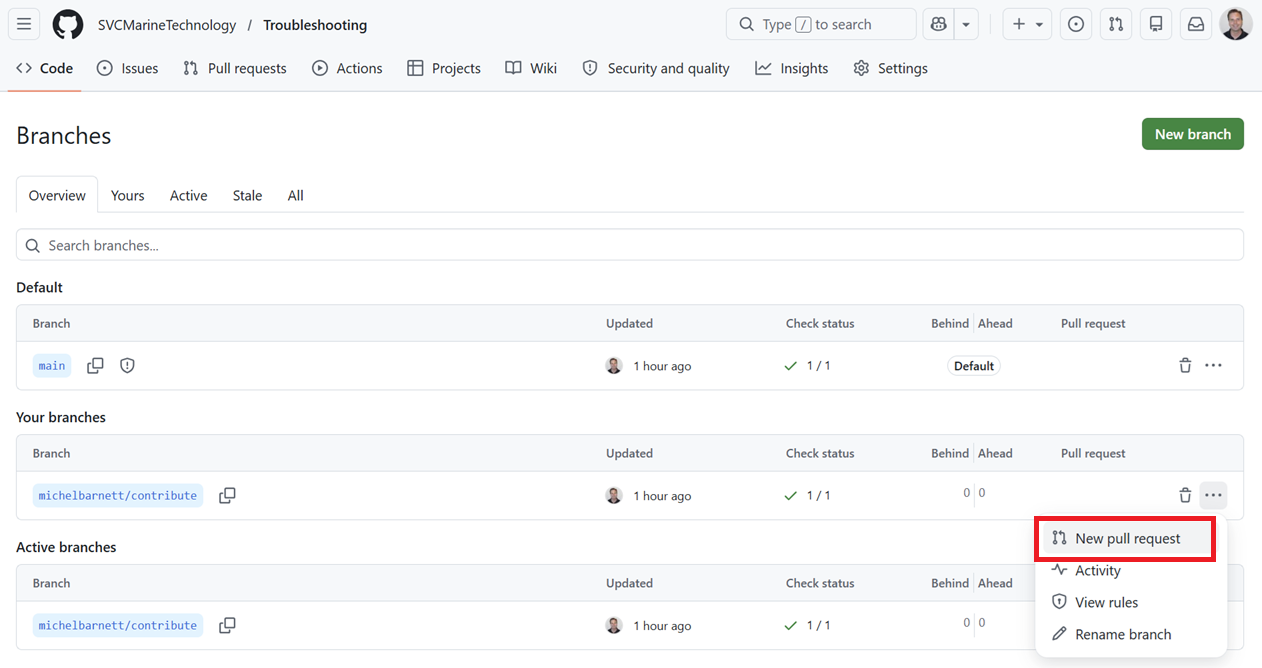
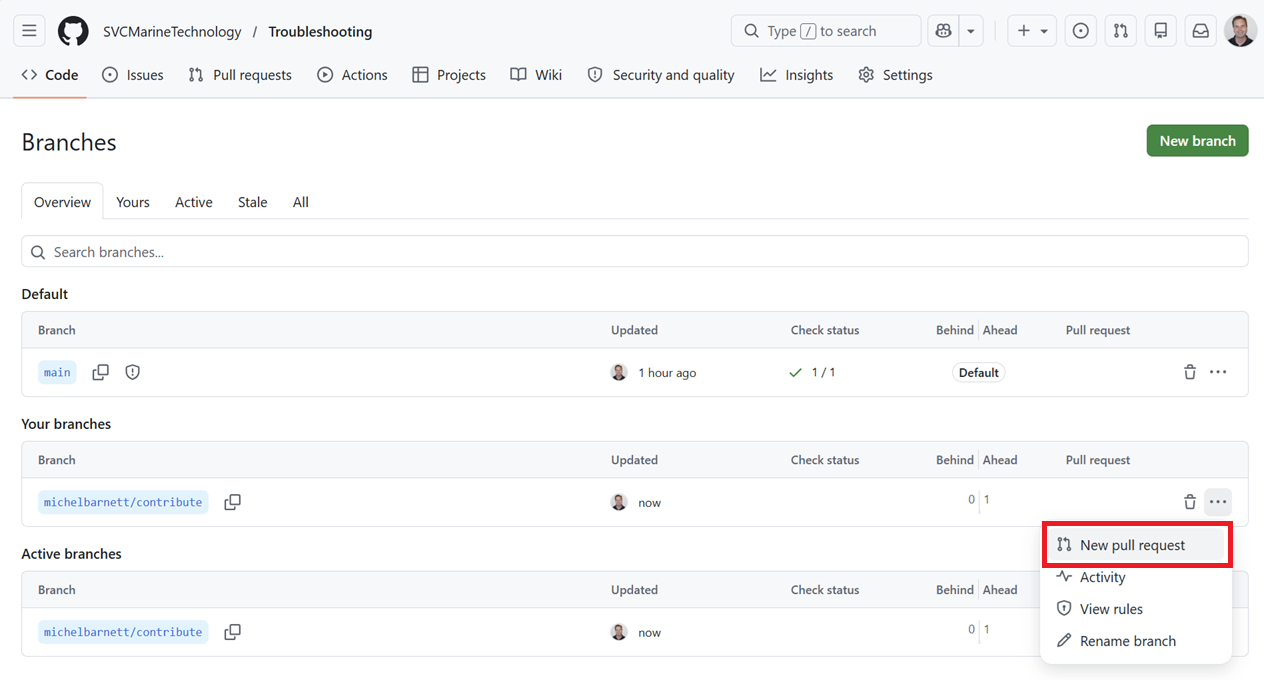
fixed formatting issue for OK

diff --git a/contribute/participate-in-review.md b/contribute/participate-in-review.md
@@ -1,3 +1,69 @@
 # Participate in Review
 
-TBD
+Once a pull request is created, it needs to be reviewed and approved before merging it into the `main` branch.  If you're selected to review a PR, you can complete the following steps to review it.
+
+## Reviewing a PR
+
+As an example, let's say you're asking to review the following PR:
+
+https://github.com/SVCMarineTechnology/Troubleshooting/pull/5
+
+Complete the following steps to do so:
+
+1. Open the PR you want to review.  For example:
+
+   https://github.com/SVCMarineTechnology/Troubleshooting/pull/5
+
+2. Review the change.  You'll want to pay particular attention to the following items:
+
+   - Description - Read it to understand the overall change
+   - Comments - Check if others have added a comment to learn about issues that have already been identified.
+   - Files changed - Review the individual files that have been modified in the PR
+
+   for example:
+
+   ![](C:\github\SVCMarineTechnology\Troubleshooting\contribute\images\participate-in-review-review-change.png)
+
+In the following procedures we'll add a general comment as well as a comment to a particular file.
+
+## Add a comment to a file
+
+Most of the comments you'll make will probably be to a specific file.  The following example demonstrates how to make a file specific comment:
+
+1. Open the PR and select **Files changed**.  For example:
+
+   ![](images/participate-in-review-view-files-changed.png)
+
+   The list of files on the left are all of the files that are changed in this PR.  In this example, all of the files are in the `contribute` directory.  This is a good way to a get a quick read on which parts of the repo have been modified.
+
+2. Add a comment by selecting a a line and clicking the `+` button.  For example:
+
+   ![](images/participate-in-review-add-comment-to-line.png)
+
+3. Enter a comment and click **Comment**.  for example:
+
+   ![](images/participate-in-review-enter-comment-to-line.png)
+
+## Add a General Comment
+
+You can also add general comments to the PR.  This is appropriate when the comment isn't file specific but applies to the overall PR.   Complete the following steps to do so.
+
+1. Open the PR, enter a comment in the Add a comment section at the end of the page and click **Comment**.  For example:
+
+   ![](images/participate-in-review-add-general-comment.png)
+
+## Resolve a Comment
+
+As the person who create the PR, you'll need to resolve all comments before you can merge your PR to main.  Here's an example of how to resolve a comment.
+
+1. Open your PR and review the comments that have been made.  In this example there are two comments:
+
+   ![](images/participate-in-review-look-at-all-comments.png)
+
+2. Resolve the comment.  
+
+   > [!NOTE]
+   >
+   > In this example, we're resolving the first comment by fixing the formatting issue and making 'OK' bold.  This means changing the appropriate file and pushing the change.
+
+3. 

diff --git a/contribute/open-pull-request.md b/contribute/open-pull-request.md
@@ -14,6 +14,10 @@ When you're ready to put your changes up for review, you'll need to open a pull 
 
    ![](images/open-pull-request-select-new-pull-request.png)
 
-4. Set the following parameters
+4. Enter a title and description and then click **Create pull request**
 
-   TBD
+   ![](images/open-pull-request-enter-title-description.png)
+
+   > [!TIP]
+   >
+   > Keep your title short and summarize the change you're making.  Provide enough detail in the description that others can understand what the change entails.

diff --git a/contribute/clone-repo.md b/contribute/clone-repo.md
@@ -42,7 +42,7 @@ This is asking you to open a Windows Command Prompt where the current directory 
 
 3. Rename the shortcut you just created to `Troubleshooting`
 
-4. Right click the shortcut and select **Properties**. Set the properties as follows and click OK
+4. Right click the shortcut and select **Properties**. Set the properties as follows and click **OK**
 
    | Parameter | Example Value                                 | Comments |
    | --------- | --------------------------------------------- | -------- |
